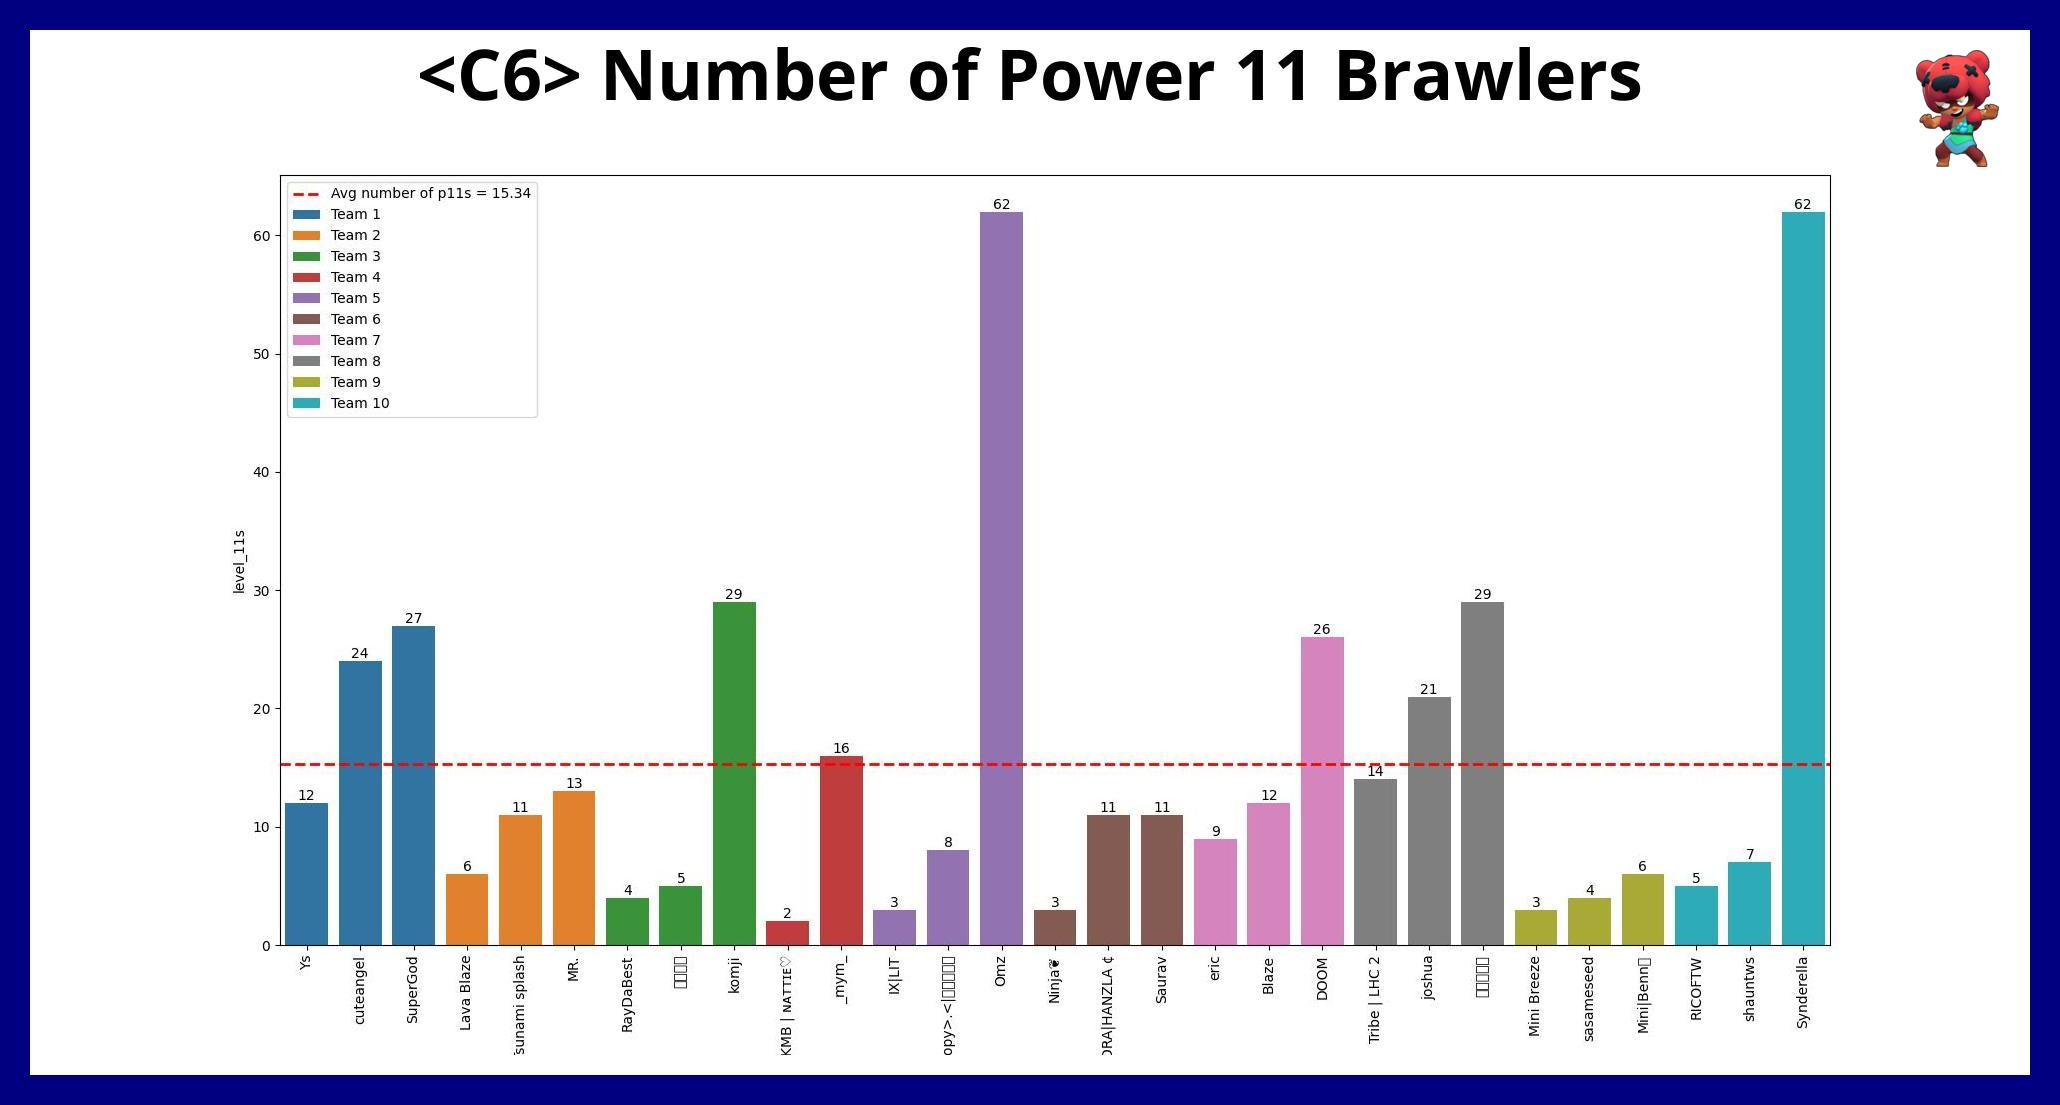
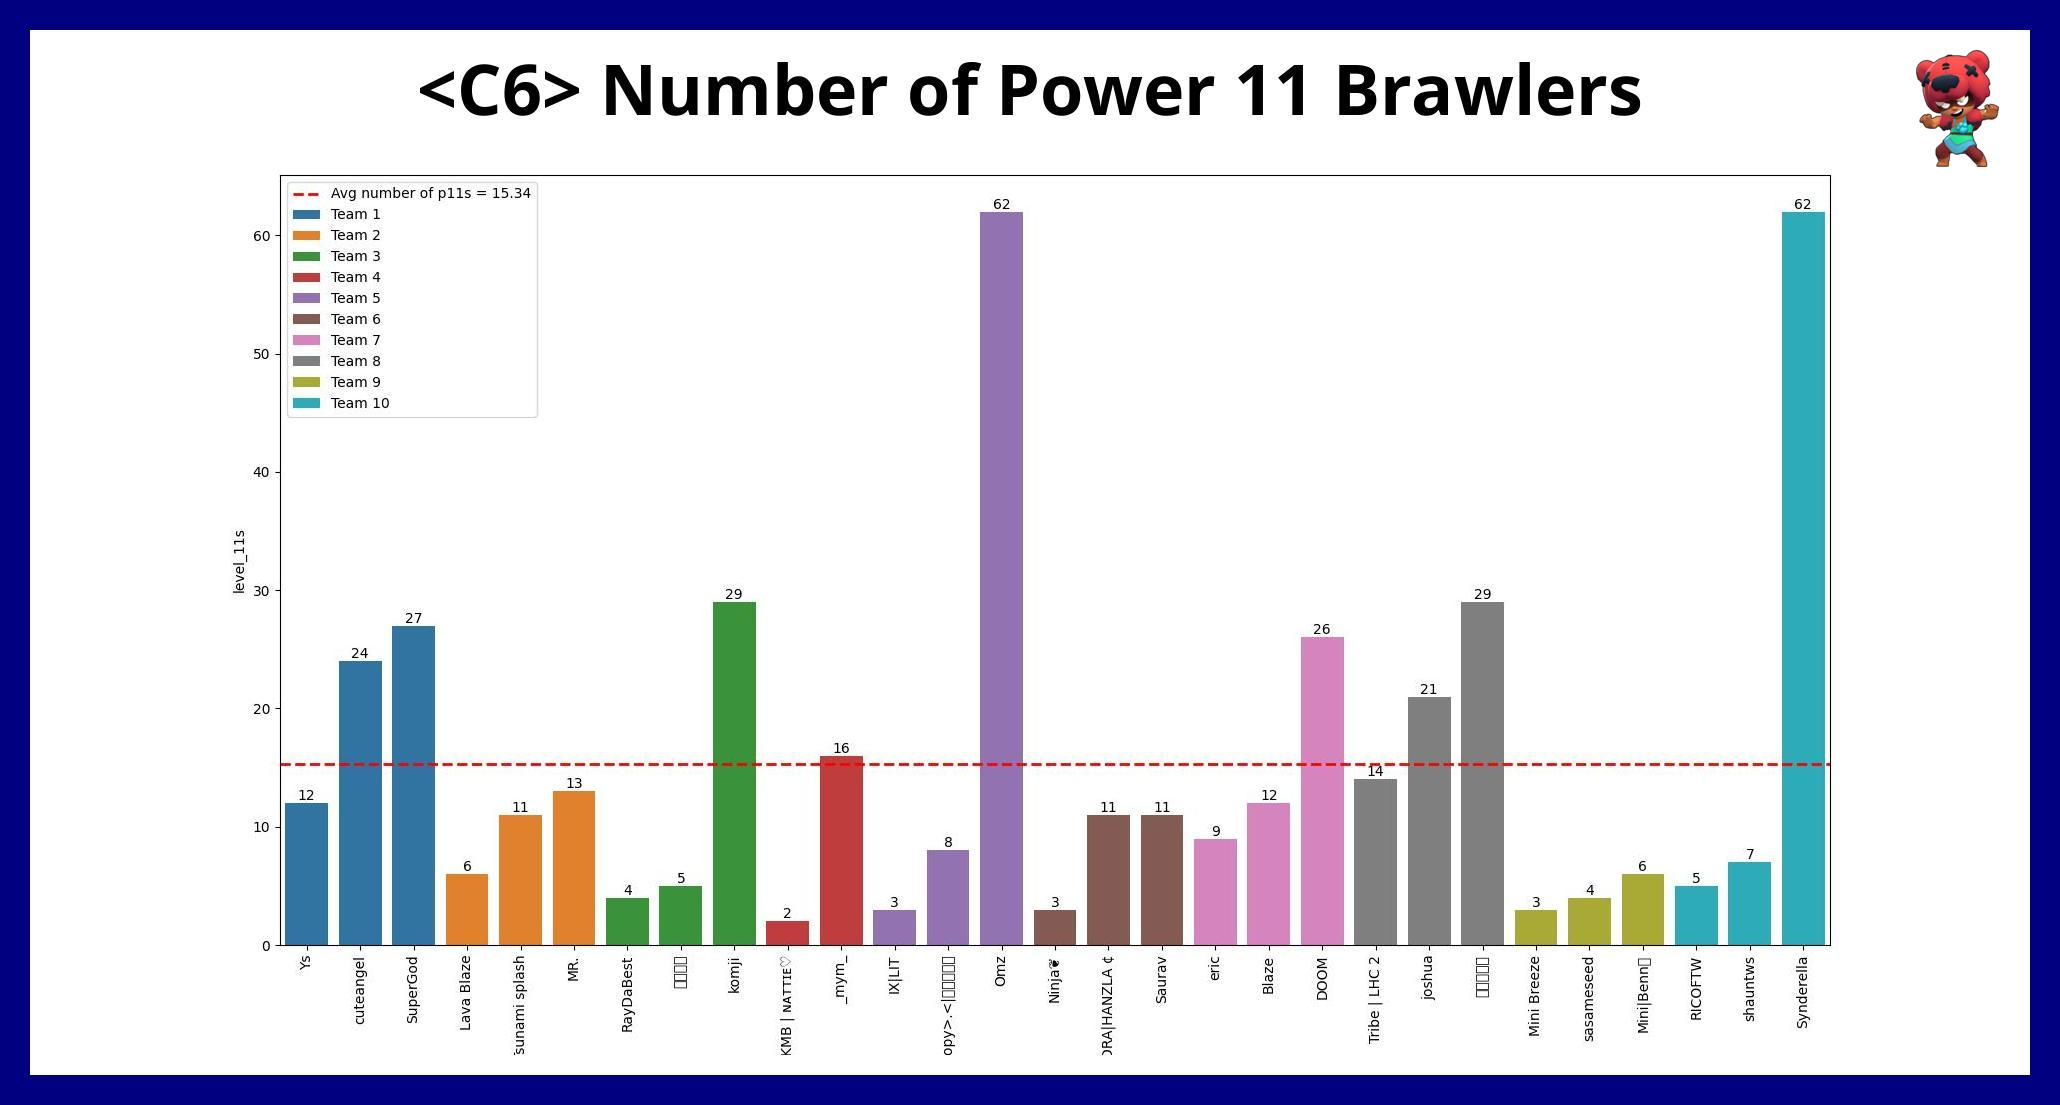
format text

Changed region(s): [[0.1864, 0.0308, 0.8078, 0.1231]]

diff --git a/aura.py b/aura.py
@@ -249,7 +249,7 @@ def pad_add_text(image_path, margin, font_size, text_y, text_value, output_path,
     font = ImageFont.truetype('font/OpenSans-Bold.ttf', font_size)
     w, h = draw.textsize(text_value, font=font)
 
-    draw.text(((W-w)/2, 25), text_value, fill="black", font=font)
+    draw.text(((W-w)/2, text_y), text_value, fill="black", font=font)
     im.save(output_path)
     print('[Format]', output_path)
 
@@ -288,8 +288,8 @@ add_image(c9_barchart, './misc_images/nita_brawler_levels.png', 50,1.5)
 add_image(c6_barchart, './misc_images/nita_brawler_levels.png', 50,1.5)
 
 # Team Averages
-pad_add_text(c9_team_averages_png, [60, 20, 20, 20], 22, 12, "<C9> Team Averages", c9_team_averages_png, 'maroon', 8)
-pad_add_text(c6_team_averages_png, [60, 20, 20, 20], 22, 12, "<C6> Team Averages", c6_team_averages_png, 'navy', 8)
+pad_add_text(c9_team_averages_png, [60, 20, 20, 20], 28, 20, "<C9> Team Averages", c9_team_averages_png, 'maroon', 8)
+pad_add_text(c6_team_averages_png, [60, 20, 20, 20], 28, 20, "<C6> Team Averages", c6_team_averages_png, 'navy', 8)
 
 add_image(c9_team_averages_png, './misc_images/rank.png', 15, 4)
 add_image(c6_team_averages_png, './misc_images/rank.png', 15, 4)
